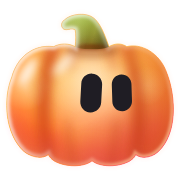
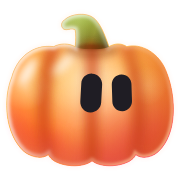
feat(app): carry the pumpkin's centre crease like its sides

Changed region(s): [[0.4444, 0.5833, 0.5833, 0.8889], [0.4444, 0.25, 0.5833, 0.4444]]

diff --git a/apps/website/src/components/haus-pumpkin-form.ts b/apps/website/src/components/haus-pumpkin-form.ts
@@ -9,8 +9,52 @@
  * (146–189). The crown meets the stem around y 48–55.
  */
 
-import { FORM_BODY, type FormPaint, type FormStop, type MeshBlob } from './haus-ghost-figure.ts';
-import { PUMPKIN_RIBS_PATH, PUMPKIN_STEM_PATH } from './haus-pumpkin-paths.ts';
+import {
+    FORM_BODY,
+    type FormGradient,
+    type FormPaint,
+    type FormStop,
+    type MeshBlob,
+} from './haus-ghost-figure.ts';
+import {
+    PUMPKIN_CENTRE_RIB_PATH,
+    PUMPKIN_RIBS_PATH,
+    PUMPKIN_STEM_PATH,
+} from './haus-pumpkin-paths.ts';
+
+/** A step deeper than the orange flesh, so the lobe creases still read on an
+    opaque body. */
+export const PUMPKIN_RIB = '#e2531a';
+
+/**
+ * How much the centre crease eases where it runs behind the left eye, from 0
+ * to 1. At 0 it matches the outer creases end to end; at 0.3 it keeps 70% of
+ * their strength behind the eyes, so the face keeps a little clean ground.
+ */
+export const CENTRE_CREASE_EYE_EASE = 0;
+
+/** Where the ease sits, in y: the left eye spans y 82–126 over the crease, so
+    the ease holds across it and ramps back to full strength over 12 units
+    either side. Offsets are along a vertical ramp from `y1` to `y2`. */
+export const CENTRE_CREASE_EASE_SPAN = {
+    y1: 50,
+    top: 74,
+    holdTop: 86,
+    holdBottom: 124,
+    bottom: 136,
+    y2: 185,
+} as const;
+
+/** How one surface strokes its outer ribs, so the centre crease can match. */
+export interface RibStroke {
+    readonly blur: number;
+    readonly opacity: number;
+    readonly width: number;
+}
+
+/** The mark's outer ribs: `.haus-ghost__ribs` in `haus-ghost.css` (width 12,
+    opacity 0.65) under the glass's light blur (5). */
+export const MARK_RIB: RibStroke = { blur: 5, opacity: 0.65, width: 12 };
 
 const EMBER = '#b8340a';
 const UMBER = '#6e2406';
@@ -34,7 +78,48 @@ export const PUMPKIN_PATCHES: readonly MeshBlob[] = [
     { id: 'magenta', drift: 'azure', color: '#ff3f8a', cx: 166, cy: 150, r: 24, opacity: 0.45 },
 ];
 
-export const PUMPKIN_FORM: readonly FormPaint[] = [
+/**
+ * The form for a surface whose outer ribs are stroked as `rib`. The centre
+ * crease repeats both layers the outer creases get: that surface's rib stroke
+ * first, under the light, then the same ember recess.
+ */
+export function pumpkinForm(rib: RibStroke): readonly FormPaint[] {
+    return [
+        {
+            id: 'centre-rib',
+            d: PUMPKIN_CENTRE_RIB_PATH,
+            mode: 'stroke',
+            width: rib.width,
+            blur: rib.blur,
+            opacity: rib.opacity,
+            paint: easedBehindEyes(PUMPKIN_RIB),
+        },
+        ...FORM_UNDER_RECESS,
+        {
+            id: 'centre-recess',
+            d: PUMPKIN_CENTRE_RIB_PATH,
+            mode: 'stroke',
+            width: CREASE_RECESS.width,
+            blur: CREASE_RECESS.blur,
+            opacity: CREASE_RECESS.opacity,
+            paint: easedBehindEyes(EMBER),
+        },
+        ...FORM_OVER_RECESS,
+    ];
+}
+
+/** Recess at the outer creases, where the lobes press together. */
+const CREASE_RECESS = {
+    id: 'crease-recess',
+    d: PUMPKIN_RIBS_PATH,
+    mode: 'stroke',
+    width: 16,
+    blur: 6,
+    opacity: 0.36,
+    paint: EMBER,
+} as const satisfies FormPaint;
+
+const FORM_UNDER_RECESS: readonly FormPaint[] = [
     /* Core shadow: the body turning away from an upper-left light. Clear over
        the lit half, rolling off to ember across the right third and the
        belly. */
@@ -63,41 +148,10 @@ export const PUMPKIN_FORM: readonly FormPaint[] = [
     crown('crown-left', 24, 98, 26, 0.5),
     crown('crown-centre', 80, 86, 40, 0.42),
     crown('crown-right', 160, 96, 22, 0.24),
-    /* Recess at the outer creases, where the lobes press together. */
-    {
-        id: 'crease-recess',
-        d: PUMPKIN_RIBS_PATH,
-        mode: 'stroke',
-        width: 16,
-        blur: 6,
-        opacity: 0.36,
-        paint: EMBER,
-    },
-    /* The centre lobe's own two creases: lower contrast, and faded out where
-       they pass behind the eyes so the face stays the focal point. */
-    {
-        id: 'centre-creases',
-        d: 'M78 54C68 92 68 140 76 182M118 54C128 92 128 140 120 182',
-        mode: 'stroke',
-        width: 10,
-        blur: 5,
-        opacity: 0.22,
-        paint: {
-            kind: 'linear',
-            x1: 0,
-            y1: 50,
-            x2: 0,
-            y2: 185,
-            stops: ramp(EMBER, [
-                [0, 1],
-                [0.16, 1],
-                [0.25, 0],
-                [0.58, 0],
-                [0.68, 1],
-                [1, 1],
-            ]),
-        },
-    },
+    CREASE_RECESS,
+];
+
+const FORM_OVER_RECESS: readonly FormPaint[] = [
     /* Contact shadow under the crown, where the stem sinks into it. */
     {
         id: 'crown-occlusion',
@@ -164,6 +218,34 @@ export const PUMPKIN_FORM: readonly FormPaint[] = [
         paint: UMBER,
     },
 ];
+
+/** The in-app mark's form. The icon mesh builds its own from `pumpkinForm`
+    with its stronger crease stroke. */
+export const PUMPKIN_FORM = pumpkinForm(MARK_RIB);
+
+function easedBehindEyes(color: string): FormGradient | string {
+    if (CENTRE_CREASE_EYE_EASE === 0) {
+        return color;
+    }
+    const span = CENTRE_CREASE_EASE_SPAN;
+    const at = (y: number) => Math.round(((y - span.y1) / (span.y2 - span.y1)) * 1000) / 1000;
+    const eased = 1 - CENTRE_CREASE_EYE_EASE;
+    return {
+        kind: 'linear',
+        x1: 0,
+        y1: span.y1,
+        x2: 0,
+        y2: span.y2,
+        stops: ramp(color, [
+            [0, 1],
+            [at(span.top), 1],
+            [at(span.holdTop), eased],
+            [at(span.holdBottom), eased],
+            [at(span.bottom), 1],
+            [1, 1],
+        ]),
+    };
+}
 
 function crown(id: string, cx: number, cy: number, r: number, strength: number): FormPaint {
     return {

diff --git a/apps/website/scripts/render-icon-mesh-pumpkin.ts b/apps/website/scripts/render-icon-mesh-pumpkin.ts
@@ -9,7 +9,11 @@
 
 import { fileURLToPath } from 'node:url';
 import type { FormPaint } from '../src/components/haus-ghost-figure.ts';
-import { PUMPKIN_FORM, PUMPKIN_PATCHES } from '../src/components/haus-pumpkin-form.ts';
+import {
+    PUMPKIN_PATCHES,
+    pumpkinForm,
+    type RibStroke,
+} from '../src/components/haus-pumpkin-form.ts';
 import { PUMPKIN_FIGURE, PUMPKIN_GLASS } from '../src/components/haus-pumpkin-palette.ts';
 import { PUMPKIN_BODY_PATH, PUMPKIN_RIBS_PATH } from '../src/components/haus-pumpkin-paths.ts';
 import { type IconProfile, type MeshBlob, renderIconMesh } from './render-icon-mesh.ts';
@@ -63,6 +67,9 @@ const BASE_AMBER = '#ffa040';
 const BASE_ORANGE = '#ff6a1a';
 const BASE_EMBER = '#ee4c0c';
 
+/* Deep creases where the lobes meet, the outer two and the centre one alike. */
+const ICON_RIB: RibStroke = { blur: 5, opacity: 0.95, width: 11 };
+
 const ICON_TERMINATOR: FormPaint = {
     id: 'icon-terminator',
     d: 'M-40 -40H240V250H-40z',
@@ -110,19 +117,16 @@ export const PUMPKIN_ICON_PROFILE: IconProfile = {
         },
         blobs: PUMPKIN_BLOBS,
         body: PUMPKIN_ICON_BODY_PATH,
-        creases: {
-            path: PUMPKIN_RIBS_PATH,
-            color: PUMPKIN_GLASS.rib,
-            width: 11,
-            blur: 5,
-            opacity: 0.95,
-        },
+        creases: { path: PUMPKIN_RIBS_PATH, color: PUMPKIN_GLASS.rib, ...ICON_RIB },
         footprint: PUMPKIN_FOOTPRINT,
         /* The mark's own volume and interior color, so the tile and the
-           sidebar shade the same gourd, plus a terminator: the tile's
-           soft-light shell lifts shadows the sidebar mark keeps, so the
-           icon deepens its right third and belly once more. */
-        form: [PUMPKIN_FORM[0], ICON_TERMINATOR, ...PUMPKIN_FORM.slice(1)],
+           sidebar shade the same gourd, with the centre crease at the icon's
+           own rib stroke, plus a terminator: the tile's soft-light shell lifts
+           shadows the sidebar mark keeps, so the icon deepens its right third
+           and belly once more. */
+        form: pumpkinForm(ICON_RIB).flatMap((paint) =>
+            paint.id === 'core-shadow' ? [paint, ICON_TERMINATOR] : [paint]
+        ),
         patches: PUMPKIN_PATCHES.map(({ color, cx, cy, id, opacity, r }) => ({
             color,
             cx,

diff --git a/apps/website/src/components/haus-pumpkin.test.tsx b/apps/website/src/components/haus-pumpkin.test.tsx
@@ -3,9 +3,15 @@ import { renderToStaticMarkup } from 'react-dom/server';
 import { HausGhost } from './haus-ghost.tsx';
 import { EYES_PATH } from './haus-ghost-paths.ts';
 import { HausPumpkin } from './haus-pumpkin.tsx';
-import { PUMPKIN_FORM, PUMPKIN_PATCHES } from './haus-pumpkin-form.ts';
+import { MARK_RIB, PUMPKIN_FORM, PUMPKIN_PATCHES } from './haus-pumpkin-form.ts';
 import { PUMPKIN_GLASS } from './haus-pumpkin-palette.ts';
-import { PUMPKIN_EYES_PATH, PUMPKIN_EYES_SCALE, PUMPKIN_FRAME } from './haus-pumpkin-paths.ts';
+import {
+    PUMPKIN_BODY_PATH,
+    PUMPKIN_CENTRE_RIB_PATH,
+    PUMPKIN_EYES_PATH,
+    PUMPKIN_EYES_SCALE,
+    PUMPKIN_FRAME,
+} from './haus-pumpkin-paths.ts';
 
 const iridescent = (props: { animated?: boolean } = {}) =>
     renderToStaticMarkup(<HausPumpkin fill="iridescent" {...props} />);
@@ -83,6 +89,28 @@ describe('Haus pumpkin', () => {
         const ghost = renderToStaticMarkup(<HausGhost fill="iridescent" />);
         expect(ghost).not.toContain('haus-ghost__form');
         expect(ghost).not.toContain('haus-ghost__patches');
+    });
+
+    test('shades the centre crease like the outer creases', () => {
+        const paint = (id: string) => PUMPKIN_FORM.find((p) => p.id === id);
+        const outer = paint('crease-recess');
+        const centre = paint('centre-recess');
+        const rib = paint('centre-rib');
+
+        expect(centre?.d).toBe(PUMPKIN_CENTRE_RIB_PATH);
+        expect([centre?.width, centre?.blur, centre?.opacity]).toEqual([
+            outer?.width,
+            outer?.blur,
+            outer?.opacity,
+        ]);
+        expect([rib?.width, rib?.blur, rib?.opacity]).toEqual([
+            MARK_RIB.width,
+            MARK_RIB.blur,
+            MARK_RIB.opacity,
+        ]);
+        // It runs from the stem socket to the belly's centre dip.
+        expect(PUMPKIN_BODY_PATH).toContain('98 180');
+        expect(PUMPKIN_CENTRE_RIB_PATH.endsWith('98 180')).toBe(true);
     });
 
     test('retunes the mesh warm and glazes the stem green inside the glass', () => {

diff --git a/apps/website/src/components/haus-pumpkin-paths.ts b/apps/website/src/components/haus-pumpkin-paths.ts
@@ -48,6 +48,11 @@ export const PUMPKIN_STEM_PATH = `${STEM.join(' ')}C108 56 88 56 79 52z`;
 /** The creases where the center lobe meets the outer lobes, bowing out with it. */
 export const PUMPKIN_RIBS_PATH = 'M137 52C152 90 154 140 147 173M55 52C42 90 40 140 49 173';
 
+/** The center lobe's one crease, where its two halves meet: from the stem
+    socket straight down to the soft dip in the belly at x 98. It passes behind
+    the left eye. */
+export const PUMPKIN_CENTRE_RIB_PATH = 'M98 56C97 94 97 142 98 180';
+
 /** Where the pumpkin's viewBox starts: it moves the artwork 1.7 right and 10.6
     up inside the unchanged 192×204 box, which puts the silhouette's centroid
     (body minus eyes, measured by area) on the box center. */

diff --git a/apps/website/src/components/haus-pumpkin-palette.ts b/apps/website/src/components/haus-pumpkin-palette.ts
@@ -9,7 +9,7 @@
 
 import type { GlassFigure } from './haus-ghost-figure.ts';
 import { GLASS } from './haus-ghost-palette.ts';
-import { PUMPKIN_FORM, PUMPKIN_PATCHES } from './haus-pumpkin-form.ts';
+import { PUMPKIN_FORM, PUMPKIN_PATCHES, PUMPKIN_RIB } from './haus-pumpkin-form.ts';
 import {
     PUMPKIN_BODY_PATH,
     PUMPKIN_EYES_PATH,
@@ -30,9 +30,7 @@ export const PUMPKIN_GLASS = {
     meshPeach: '#ffc640',
     meshOrange: '#ff5a2a',
     meshRose: '#ff3f78',
-    /* A step deeper than the orange flesh, so the lobe creases still read on
-       an opaque body. */
-    rib: '#e2531a',
+    rib: PUMPKIN_RIB,
     stemGreen: '#86c043',
     stemOlive: '#5f7f22',
 } as const;
